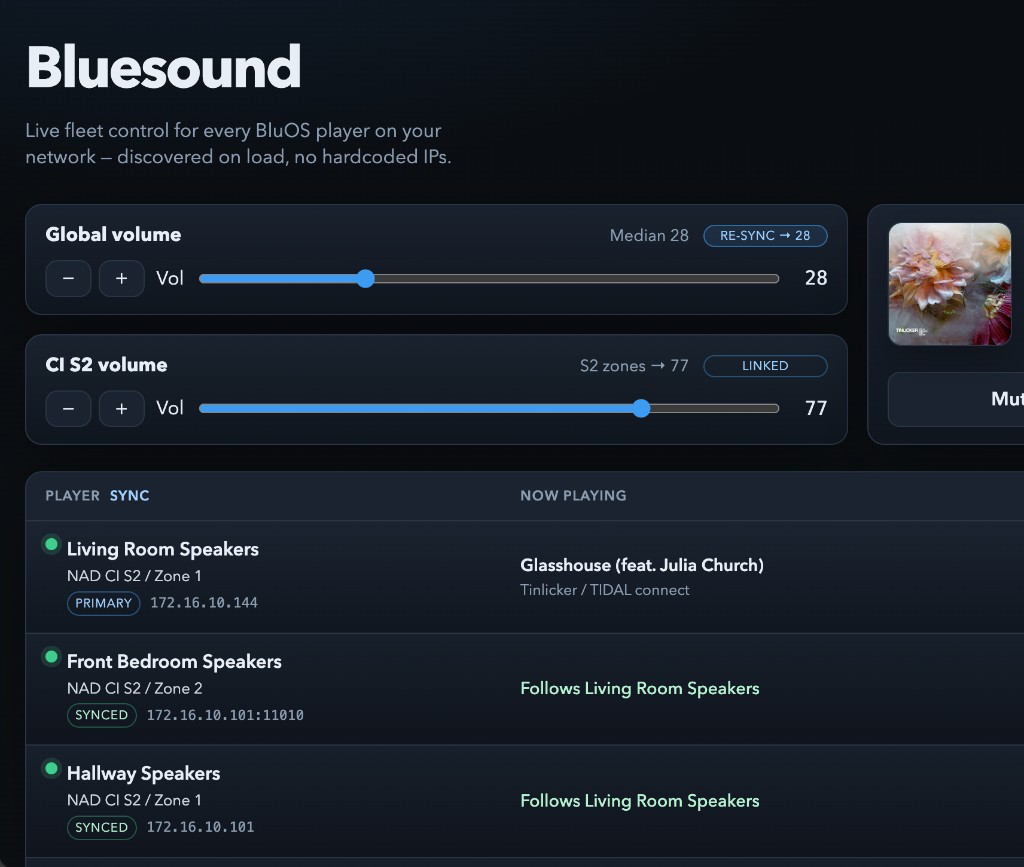
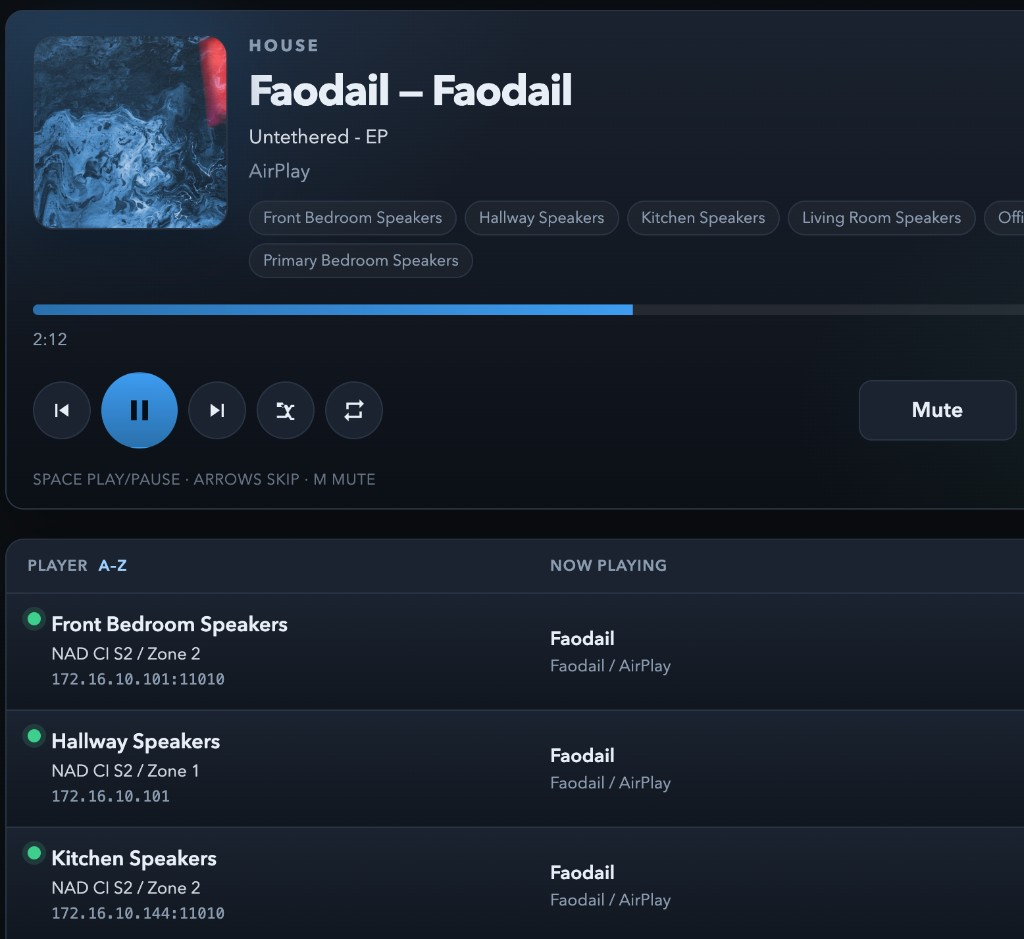
docs: rewrite README with current fleet screenshot
Describe the house remote and live fleet as they ship, and drop the last
historical bluesound-dashboard name from the changelog.

diff --git a/README.md b/README.md
@@ -5,32 +5,30 @@
 [![Python](https://img.shields.io/badge/python-3.10%2B-blue.svg)](https://www.python.org/downloads/)
 [![Node](https://img.shields.io/badge/node-22%2B-green.svg)](https://nodejs.org/)
 
-Consolidated LAN dashboard for BluOS players (Custom Integration API **v1.7**). Discovers devices on the network (mDNS + LSDP) and exposes multi-device playback, volume, queue, inputs, presets, Bluetooth, and multi-room controls through a live web UI — the house-wide surface the official apps never shipped.
+LAN dashboard for every BluOS player on your network — Nodes, Pulse, NAD CI zones, and the rest. It discovers the fleet (mDNS + LSDP), then keeps house-wide playback, volume, and grouping live in the browser. Custom Integration API **v1.7**.
 
 Related CLI: [bluos-controller](https://github.com/tbaur/bluos-controller). This dashboard is self-contained (no runtime dependency on the CLI).
 
-![Fleet view with live players, global volume, and house remote](docs/images/fleet.png)
+![House remote with now playing, room chips, and the live player list](docs/images/fleet.png)
 
 ## Features
 
-- **Discovery** on page load, on demand, and automatic re-scan when the fleet is empty — mDNS browses `_musc` and `_musp` (CI secondary zones as `ip:port`)
-- **Live fleet** via server-side poller + SSE (REST fallback while reconnecting; after prolonged SSE failure, Offline pill + 5s REST poll with SSE retry every 60s)
-- **Playback** play / pause / stop / skip / back / toggle
-- **Volume** absolute level, relative adjust (+/−), mute (per-player and house-wide); **Bluesound** and **NAD CI S2** are separate sliders (different amp scales)
-- **House remote** now-playing hero: artwork, live/seekable progress, skip/shuffle/repeat on the house stream, room chips, and a source picker when the house is mixed; fleet mute / stop all (pause all when mixed)
-- **Queue** view / clear / reorder
-- **Inputs**, **presets**, **Bluetooth** modes (unsupported players hide BT; probe failures are not treated as hard errors)
-- **Multi-room groups** create groups, add/remove followers, **group all free rooms** under a lead, ungroup one set or **ungroup all**; break all also clears **orphans** whose primary left the network (reparent ungroup)
-- **House page** fleet transport, break-all groups, soft/hard reboot all, firmware inventory + upgrade check
-- **Player settings** audio/player options (EQ, replay gain, LED, standby, …)
-- **Diagnostics** structured per-player status (uptime, signal, network, firmware); hard/soft reboot (API)
-- **Ops** health / readiness endpoints, structured logs, automated releases — see [docs/RUNBOOK.md](docs/RUNBOOK.md)
+- **House remote** — artwork, title/album/source, rooms on the stream, live seek, skip, shuffle/repeat, mute, and stop all. Space play/pause, arrows skip, M mute. When rooms are on different sources, pick which stream the remote drives.
+- **Fleet** — every player, live now-playing, A–Z or clustered by sync group (auto-switches to Sync when a group forms).
+- **Volume** — **Bluesound** (Nodes/Pulse) and **NAD CI S2** are separate sliders (different amp scales). CI S2 also has 42 / 50 / 60 / 70 chips.
+- **Multi-room** — create groups, add/remove followers, group all free rooms under a lead, ungroup one set or all. Break-all also clears orphans whose primary left the network.
+- **Per player** — queue, inputs, presets, Bluetooth, audio/player settings, diagnostics, hard/soft reboot.
+- **House page** — same remote, firmware inventory + upgrade check, reboot all, ungroup all.
+- **Discovery** — on load, on rescan, and automatic re-scan when the fleet is empty. mDNS browses `_musc` and `_musp` (CI secondary zones as `ip:port`).
+- **Live updates** — server poller + SSE, with REST fallback if the stream drops.
+
+Ops (health, logs, LAN bind): [docs/RUNBOOK.md](docs/RUNBOOK.md).
 
 ## Requirements
 
 - Python 3.10+ (CI: 3.10, 3.13, 3.14)
 - Node.js 22+
-- Same LAN as your players (discovery and control stay on the local network)
+- Same LAN as your players
 
 ## Quick start
 
@@ -39,31 +37,18 @@ make install   # backend venv + frontend deps
 make run       # API then UI (fails if :8000/:8765 busy; BSD_FORCE_FREE_PORTS=1 to reclaim)
 ```
 
-Open http://127.0.0.1:8765/ (API listens on http://127.0.0.1:8000/). For LAN binds, set `BSD_API_TOKEN` in the repo-root `.env` and the same value as `VITE_API_TOKEN` in `frontend/.env` (Vite does not read the repo-root file) — see [docs/CONFIGURATION.md](docs/CONFIGURATION.md).
+Open http://127.0.0.1:8765/ (API on http://127.0.0.1:8000/).
 
-Full setup and checks: [CONTRIBUTING.md](CONTRIBUTING.md). Ops details: [docs/RUNBOOK.md](docs/RUNBOOK.md). Configuration: [docs/CONFIGURATION.md](docs/CONFIGURATION.md) (copy [.env.example](.env.example) to the repo root when needed).
+For a LAN bind, set `BSD_API_TOKEN` in the repo-root `.env` and the same value as `VITE_API_TOKEN` in `frontend/.env` (Vite does not read the repo-root file). Copy [.env.example](.env.example) when you need non-default settings.
 
-Or two terminals (start UI only after API `/api/v1/healthz` returns 200):
-
-```bash
-# Terminal 1 — API
-cd backend && python3 -m venv .venv && source .venv/bin/activate
-pip install -e ".[dev]" && uvicorn app.main:app --reload --host 127.0.0.1 --port 8000
-```
-
-```bash
-# Terminal 2 — UI
-cd frontend && npm ci && npm run dev
-```
+Full setup and checks: [CONTRIBUTING.md](CONTRIBUTING.md). Two-terminal start: [docs/RUNBOOK.md](docs/RUNBOOK.md). Variables: [docs/CONFIGURATION.md](docs/CONFIGURATION.md).
 
 ## Docs
 
-Keep these aligned when behavior changes (see [CONTRIBUTING.md](CONTRIBUTING.md)):
-
 - [Configuration](docs/CONFIGURATION.md) — `BSD_` variables, discovery, network exposure
 - [Runbook](docs/RUNBOOK.md) — start, health, failures, logs
-- [Changelog](CHANGELOG.md) — released history (generated by release-please; do not hand-edit for routine releases)
-- [Security](SECURITY.md) — supported versions and vulnerability reporting
+- [Changelog](CHANGELOG.md) — released history (generated by release-please)
+- [Security](SECURITY.md)
 - [Code of Conduct](CODE_OF_CONDUCT.md)
 - [Releasing](RELEASING.md)
 - [Contributing](CONTRIBUTING.md)

diff --git a/CHANGELOG.md b/CHANGELOG.md
@@ -87,7 +87,7 @@ All notable changes to this project are documented in this file.
 
 ### Features
 
-* initial bluesound-dashboard v0.1.0 ([beb9fe0](https://github.com/tbaur/bluos-dashboard/commit/beb9fe03fbea8d1a310510334c9ccf60503ce137))
+* initial bluos-dashboard v0.1.0 ([beb9fe0](https://github.com/tbaur/bluos-dashboard/commit/beb9fe03fbea8d1a310510334c9ccf60503ce137))
 
 
 ### Bug Fixes
